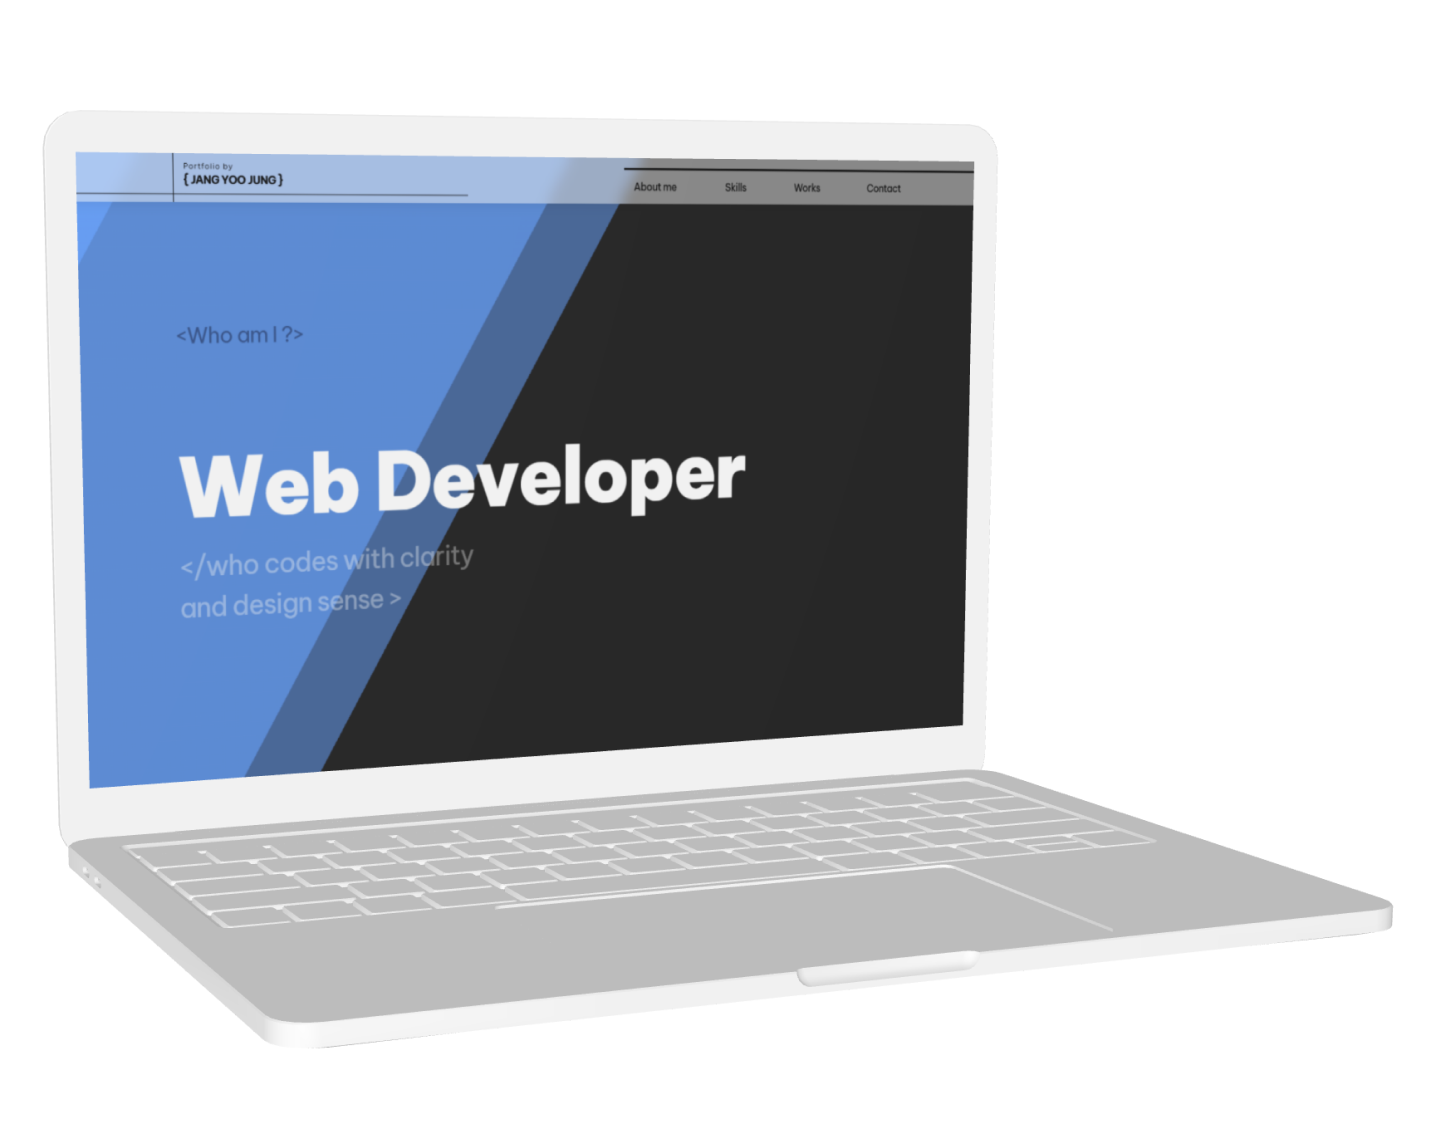
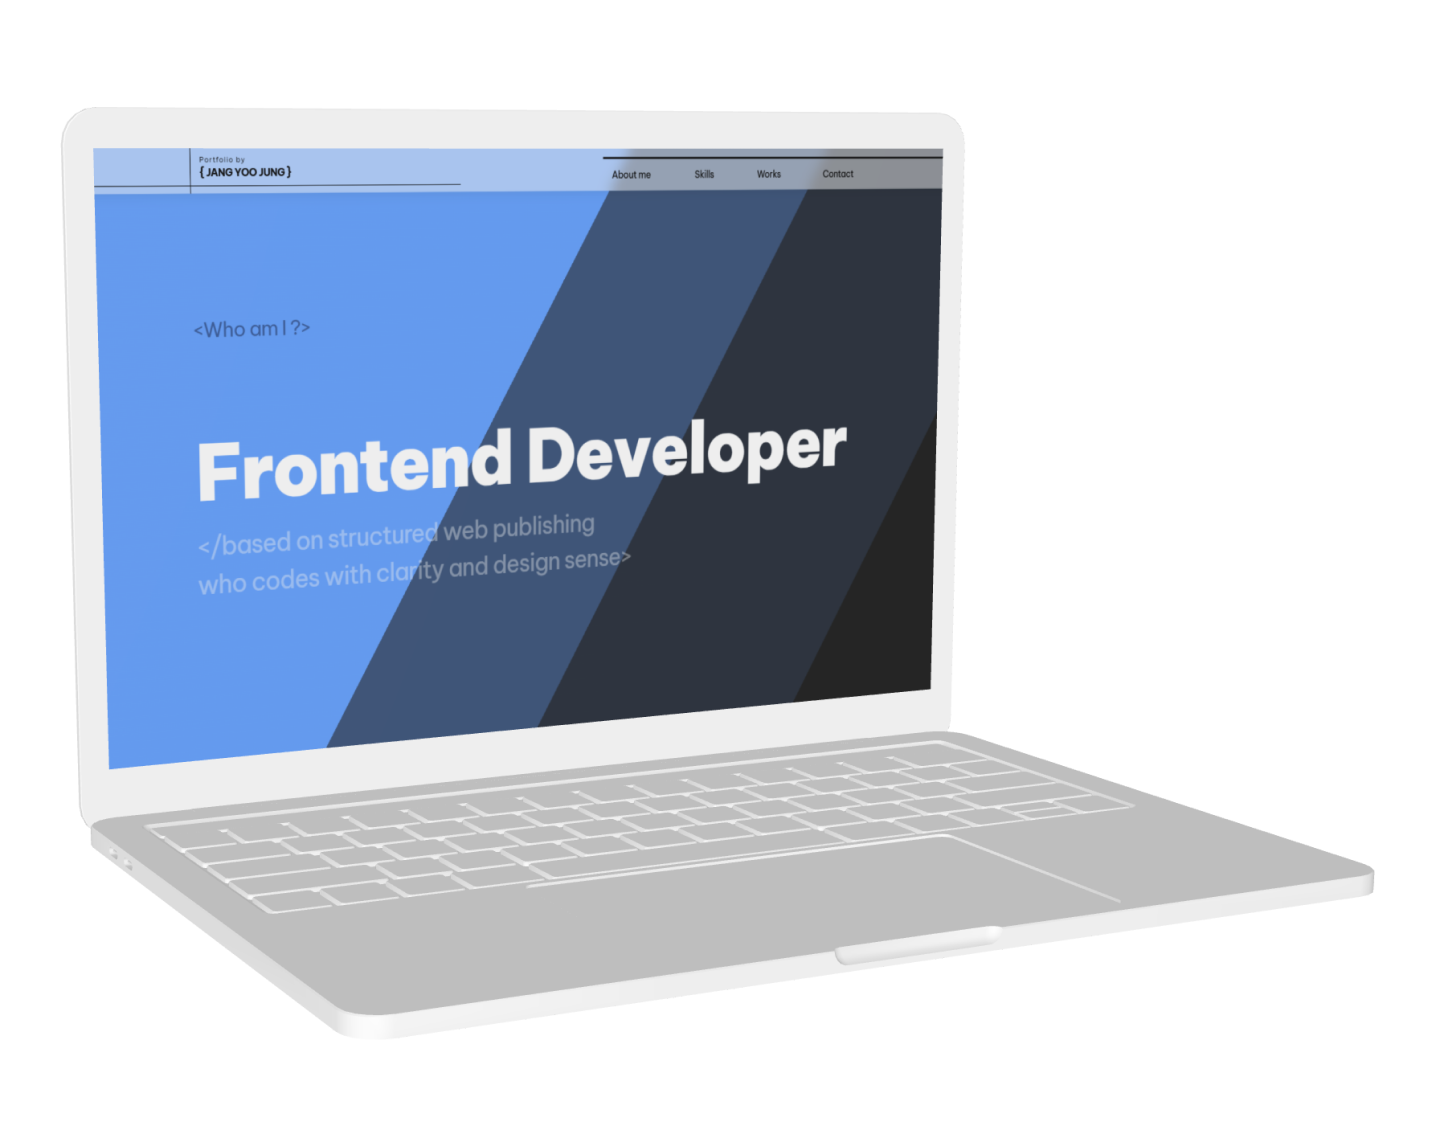
이미지 수정

Changed region(s): [[0.0312, 0.1238, 0.9688, 0.9284], [0.3438, 0.8665, 0.4688, 0.8974]]

diff --git a/src/components/Hero/Hero.jsx b/src/components/Hero/Hero.jsx
@@ -48,9 +48,9 @@ const Hero = ({ startAnimation }) => {
             <div className="bg bg3"></div>
             <div className="inner">
                 <p className="whoami">{'<Who am I ?>'}</p>
-                <h1>Web Developer</h1>
-                <p>{'</who codes with clarity'}</p>
-                <p>{'and design sense >'}</p>
+                <h1>Frontend Developer</h1>
+                <p>{'</based on structured web publishing'}</p>
+                <p>{'who codes with clarity and design sense>'}</p>
             </div>
         </section>
     );
